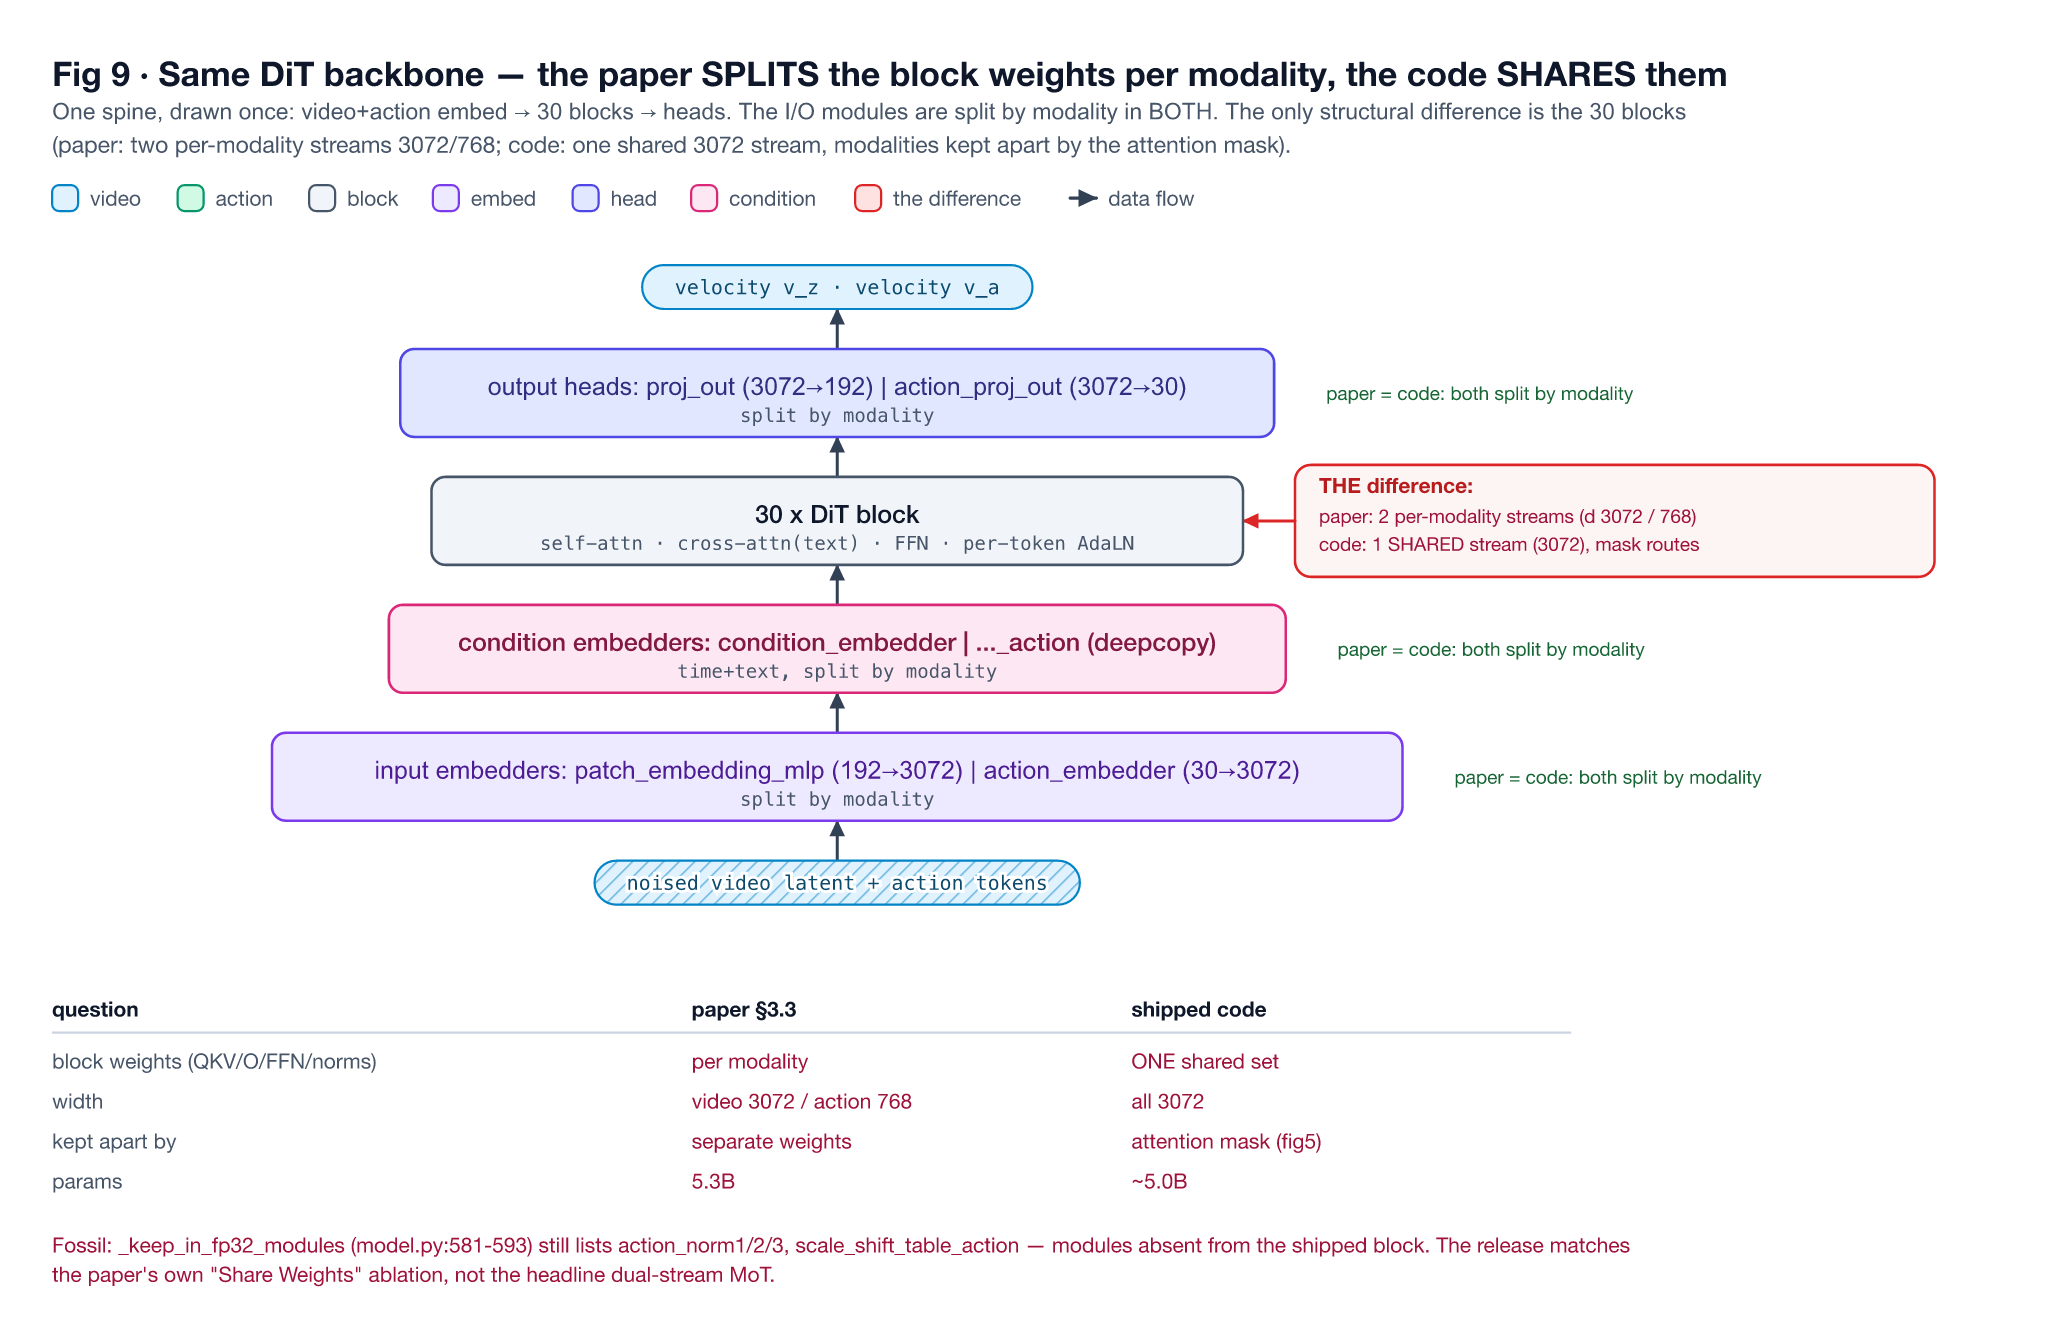
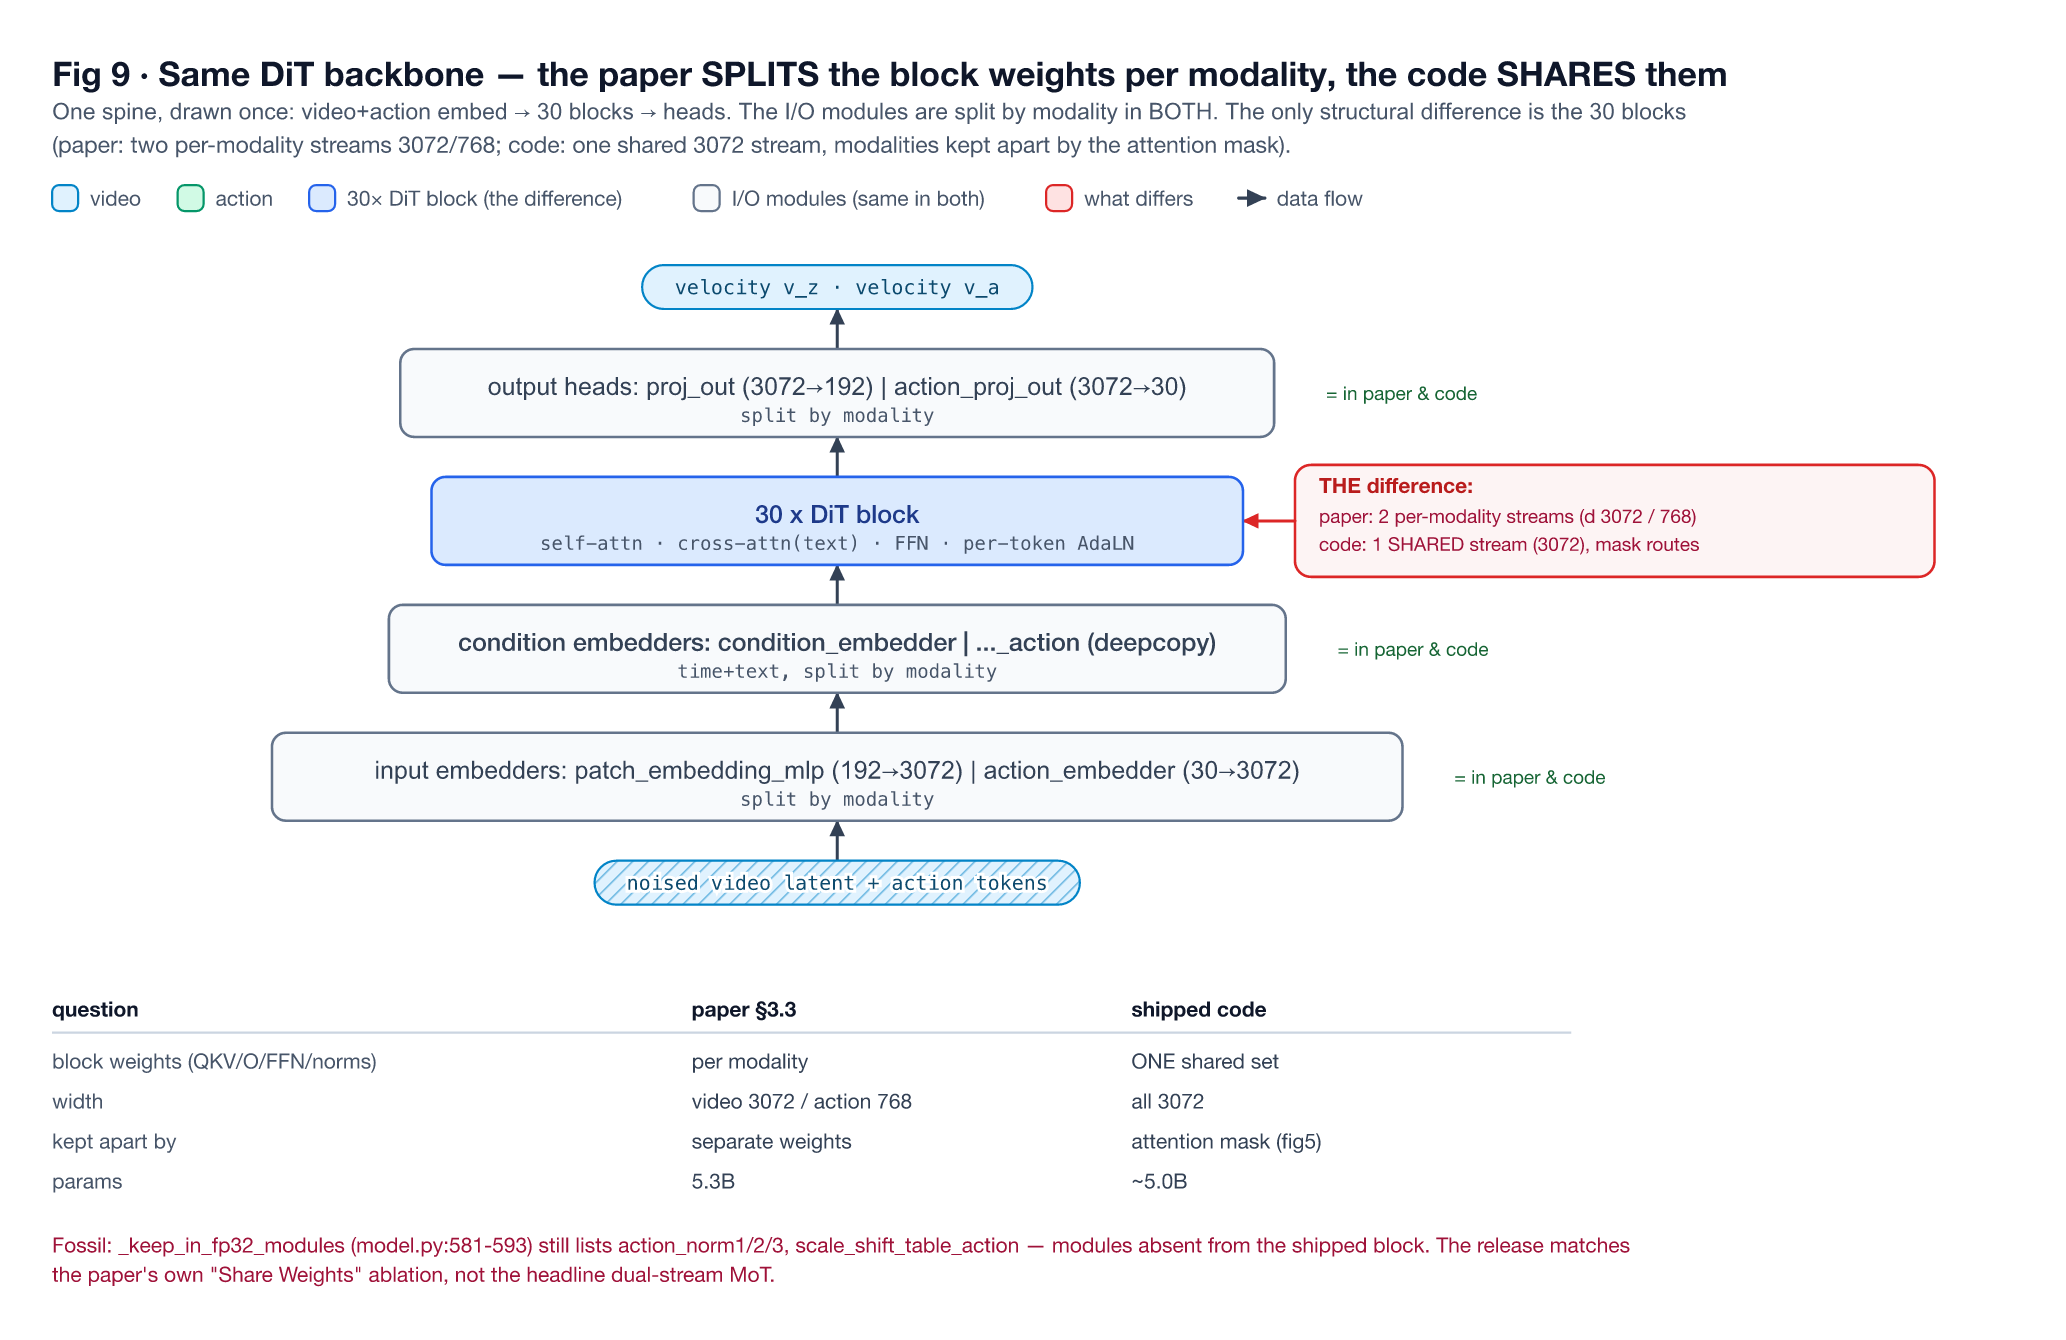
fig09: focal DiT block, neutral table, terse annotations
Inverted hierarchy fixed: the 30× DiT block (the only real difference) is now the
visual anchor (blue + the red callout) while the identical I/O modules recede to
neutral grey. Table text neutral (was all-red on both columns — red is reserved for
the 'THE difference' callout). The 3× verbatim 'split by modality' annotations made
terse. Legend keys the new emphasis.

diff --git a/examples/lingbot_va/fig09_model_structure.py b/examples/lingbot_va/fig09_model_structure.py
@@ -17,29 +17,31 @@ d = Diagram(
 X = 360  # spine center
 
 # ----- the shared spine (bottom -> top), drawn ONCE --------------------------------
+# the I/O modules (emb / cond / heads) are identical in paper & code, so they are muted
+# to neutral 'io' grey and recede; the 30× DiT block — the ONLY real difference — keeps
+# a stronger fill and gets the red callout, so it reads as the focal point.
 spine = VStack([
     IOLabel("velocity v_z  ·  velocity v_a", id="out", modality="video"),
     Block("output heads:  proj_out (3072->192)  |  action_proj_out (3072->30)",
-          kind="head", sub="split by modality", id="heads", min_w=380),
-    Block("30 x  DiT block", kind="model",
+          kind="io", sub="split by modality", id="heads", min_w=380),
+    Block("30 x  DiT block", kind="attention",
           sub="self-attn · cross-attn(text) · FFN · per-token AdaLN", id="blk", min_w=380),
     Block("condition embedders:  condition_embedder  |  ..._action (deepcopy)",
-          kind="cond", sub="time+text, split by modality", id="cond", min_w=380),
+          kind="io", sub="time+text, split by modality", id="cond", min_w=380),
     Block("input embedders:  patch_embedding_mlp (192->3072)  |  action_embedder (30->3072)",
-          kind="linear", sub="split by modality", id="emb", min_w=380),
+          kind="io", sub="split by modality", id="emb", min_w=380),
     IOLabel("noised video latent  +  action tokens", id="in", modality="video", hatched=True),
 ], gap=20)
 d.place(spine, X - 190, 130)
 d.chain(["in", "emb", "cond", "blk", "heads", "out"])
 
 # ----- per-module paper|code annotations (right of the spine) ----------------------
-def same(mid, text):
+def same(mid):
     b = d.box(mid)
-    d.note(b.x2 + 26, b.cy + 3.5, "paper = code:  " + text, size=style.T_SUB,
-           color="#166534")
-same("emb", "both split by modality")
-same("cond", "both split by modality")
-same("heads", "both split by modality")
+    d.note(b.x2 + 26, b.cy + 3.5, "= in paper & code", size=style.T_SUB, color="#166534")
+same("emb")           # the I/O modules are identical in both; their sublabels already
+same("cond")          # say "split by modality", so this stays terse (no 3× verbatim).
+same("heads")
 
 # the block is THE difference — a highlighted callout
 bb = d.box("blk")
@@ -63,20 +65,23 @@ d.note(xq, y0, "question", size=style.T_SUB + 1, weight="600", color=style.INK)
 d.note(xp, y0, "paper §3.3", size=style.T_SUB + 1, weight="600", color=style.INK)
 d.note(xc, y0, "shipped code", size=style.T_SUB + 1, weight="600", color=style.INK)
 d.doc.line("labels", xq, y0 + 8, xc + 220, y0 + 8, "#CBD5E1", 1.1)
+# the table just lists the contrasting facts (neutral); the red is reserved for the
+# 'THE difference' callout, so the table isn't a wall of alarm-red on both columns.
 for i, (q, p, c) in enumerate(rows):
     yy = y0 + 26 + i * 20
     d.note(xq, yy, q, size=style.T_SUB + 1, color=style.MUTED)
-    d.note(xp, yy, p, size=style.T_SUB + 1, color="#9F1239")
-    d.note(xc, yy, c, size=style.T_SUB + 1, color="#9F1239")
+    d.note(xp, yy, p, size=style.T_SUB + 1, color="#334155")
+    d.note(xc, yy, c, size=style.T_SUB + 1, color="#334155")
 d.note(xq, y0 + 26 + len(rows) * 20 + 12,
        "Fossil: _keep_in_fp32_modules (model.py:581-593) still lists action_norm1/2/3, "
        "scale_shift_table_action — modules absent from the shipped block. The release matches "
        "the paper's own \"Share Weights\" ablation, not the headline dual-stream MoT.",
        size=style.T_SUB + 1, color="#9F1239", max_w=900)
 
-leg = Swatches([("video", "video"), ("action", "action"), ("model", "block"),
-                ("linear", "embed"), ("head", "head"), ("cond", "condition"),
-                (("#FEE2E2", "#DC2626"), "the difference"),
+leg = Swatches([("video", "video"), ("action", "action"),
+                ("attention", "30× DiT block (the difference)"),
+                ("io", "I/O modules (same in both)"),
+                (("#FEE2E2", "#DC2626"), "what differs"),
                 ("main", "data flow", "edge")], max_w=760, id="leg")
 d.place(leg, 60, 90)
 